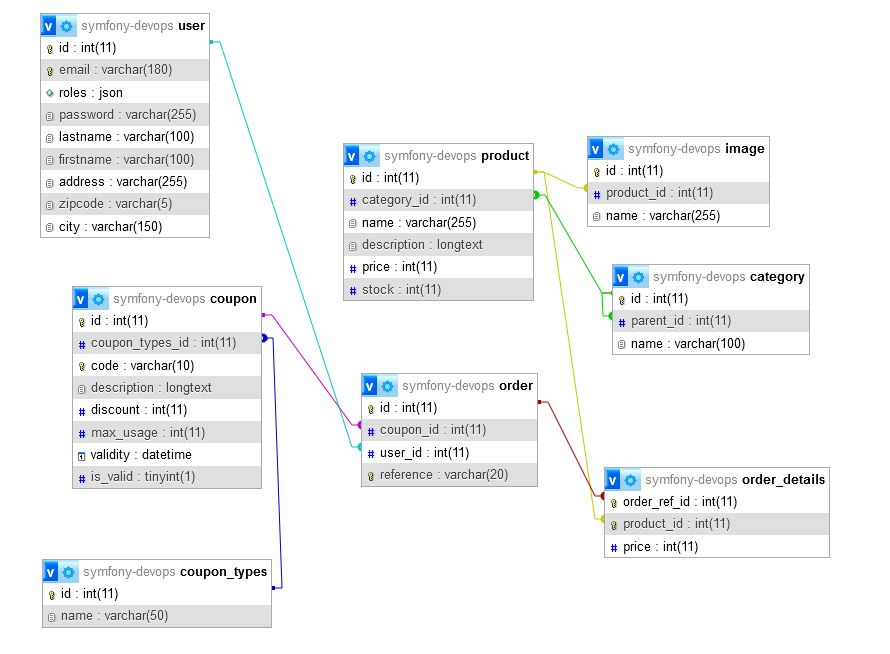
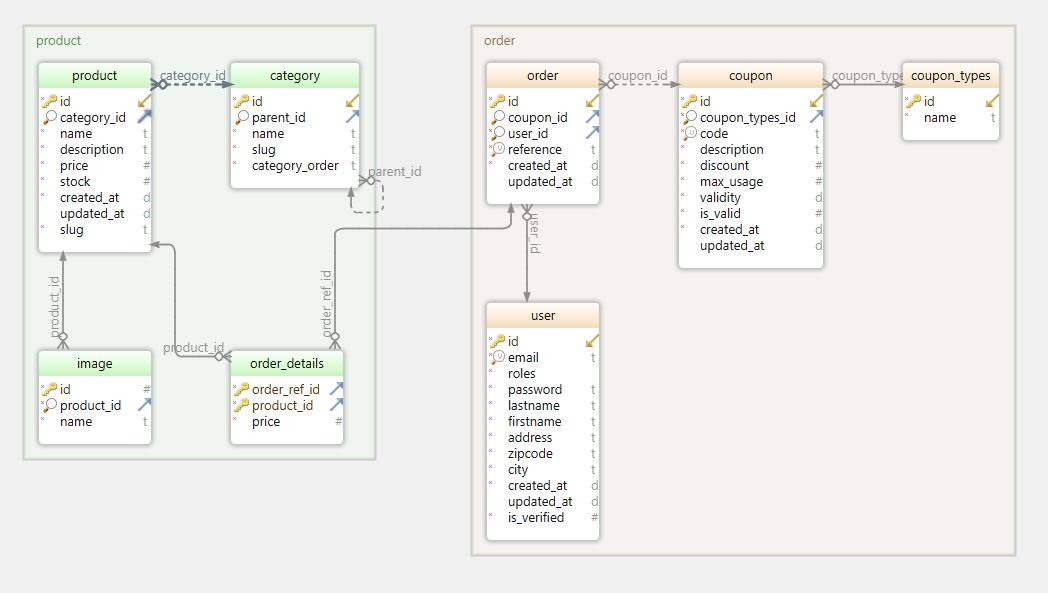
Templates

diff --git a/src/Controller/RegistrationController.php b/src/Controller/RegistrationController.php
@@ -5,6 +5,8 @@ namespace App\Controller;
 use App\Entity\User;
 use App\Form\RegistrationFormType;
 use App\Security\UserAuthenticator;
+use App\Service\JWTService;
+use App\Service\SendMailService;
 use Doctrine\ORM\EntityManagerInterface;
 use Symfony\Bundle\FrameworkBundle\Controller\AbstractController;
 use Symfony\Component\HttpFoundation\Request;
@@ -12,23 +14,31 @@ use Symfony\Component\HttpFoundation\Response;
 use Symfony\Component\PasswordHasher\Hasher\UserPasswordHasherInterface;
 use Symfony\Component\Routing\Annotation\Route;
 use Symfony\Component\Security\Http\Authentication\UserAuthenticatorInterface;
-use Symfony\Contracts\Translation\TranslatorInterface;
 
 class RegistrationController extends AbstractController
 {
     #[Route('/register', name: 'app_register')]
-    public function register(Request $request, UserPasswordHasherInterface $userPasswordHasher, 
-                             
-                             
-                             
-                             UserAuthenticatorInterface $userAuthenticator, UserAuthenticator $authenticator, EntityManagerInterface $entityManager): Response
+    public function register(
+        Request                     $request,
+        UserPasswordHasherInterface $userPasswordHasher,
+        UserAuthenticatorInterface  $userAuthenticator,
+        UserAuthenticator           $authenticator,
+        EntityManagerInterface      $entityManager,
+        SendMailService             $sendMailService,
+        JWTService                  $JWTService
+    ): Response
     {
+        //TODO corrige template form
+
+        //TODO regle ce probleme
+        //var_dump($this->getParameter('app.jwtsecret'));
+
+        //pass 'identique'
         $user = new User();
         $form = $this->createForm(RegistrationFormType::class, $user);
         $form->handleRequest($request);
 
         if ($form->isSubmitted() && $form->isValid()) {
-            // encode the plain password
             $user->setPassword(
                 $userPasswordHasher->hashPassword(
                     $user,
@@ -38,7 +48,38 @@ class RegistrationController extends AbstractController
 
             $entityManager->persist($user);
             $entityManager->flush();
-            // do anything else you need here, like send an email
+
+
+            //you generate a  activation link on JWT token |
+
+            //- le Header
+            $header = [
+                'typ' => 'JWT',
+                'alg' => 'HS256'
+            ];
+
+            //-le payload
+            $payload = ['user_id' => $user->getId()];
+
+            //-genere le token
+            //TODO active ds service.yaml '0hLa83lleBroue11e!'
+            //$token = $JWTService->generate($header,$payload, $this->getParameter('app.jwtsecret'));
+            $token = $JWTService->generate($header, $payload, '0hLa83lleBroue11e!');
+
+            //TODO envoie email
+//            //on envoie l'email
+//
+//            // do anything else you need here, like send an email
+//            /**
+//             * @var SendMailService $sendMailService
+//             */
+//            $sendMailService->send(
+//                'no-reply@monsite.net',
+//                $user->getEmail(),
+//                'Your inscription',
+//                'template-register',
+//                compact('user')
+//            );
 
             return $userAuthenticator->authenticateUser(
                 $user,
@@ -51,4 +92,12 @@ class RegistrationController extends AbstractController
             'registrationForm' => $form->createView(),
         ]);
     }
+
+    #[Route('/verif/{token}', name: 'verify_user')]
+    public function verifUser($token, JWTService $JWTService): Response
+    {
+        $var = $JWTService->getPayload($token);
+        dd($token);
+    }
 }
+

diff --git a/src/Entity/Traits/Timestampable.php b/src/Entity/Traits/Timestampable.php
@@ -3,17 +3,20 @@
 namespace App\Entity\Traits;
 
 
+use Doctrine\DBAL\Types\Types;
 use Monolog\DateTimeImmutable;
 use Doctrine\ORM\Mapping as ORM;
+
+
 
 trait Timestampable
 {
 
-    #[ORM\Column(type: 'datetime_immutable', options: ['default' => 'CURRENT_TIMESTAMP'])]
+    #[ORM\Column(type: Types::DATETIME_IMMUTABLE, nullable: false , options: ['default' => 'CURRENT_TIMESTAMP'])]
     private ?\DateTimeInterface $createdAt;
 
-    #[ORM\Column(type: 'datetime_immutable', options: ['default' => 'CURRENT_TIMESTAMP'])]
-    private ?\DateTimeInterface $updatedAt;
+    #[ORM\Column(type: Types::DATETIME_MUTABLE, nullable: true, options: ['default' => 'CURRENT_TIMESTAMP'])]
+    private ?\DateTimeInterface $updatedAt = null;
 
 
     public function getCreatedAt(): ?\DateTimeInterface

diff --git a/src/Entity/User.php b/src/Entity/User.php
@@ -16,6 +16,7 @@ use Symfony\Component\Security\Core\User\UserInterface;
 #[UniqueEntity(fields: ['email'], message: 'There is already an account with this email')]
 class User implements UserInterface, PasswordAuthenticatedUserInterface
 {
+    //#[ORM\Id, ORM\Column, ORM\GeneratedValue]
     #[ORM\Id]
     #[ORM\GeneratedValue]
     #[ORM\Column(type: 'integer')]
@@ -124,6 +125,7 @@ class User implements UserInterface, PasswordAuthenticatedUserInterface
 
         return $this;
     }
+
 
     public function getIsVerified(): ?bool
     {

diff --git a/public/index.php b/public/index.php
@@ -1,8 +1,8 @@
 <?php
 
 use App\Kernel;
-
 require_once dirname(__DIR__).'/vendor/autoload_runtime.php';
+
 
 return function (array $context) {
     return new Kernel($context['APP_ENV'], (bool) $context['APP_DEBUG']);
